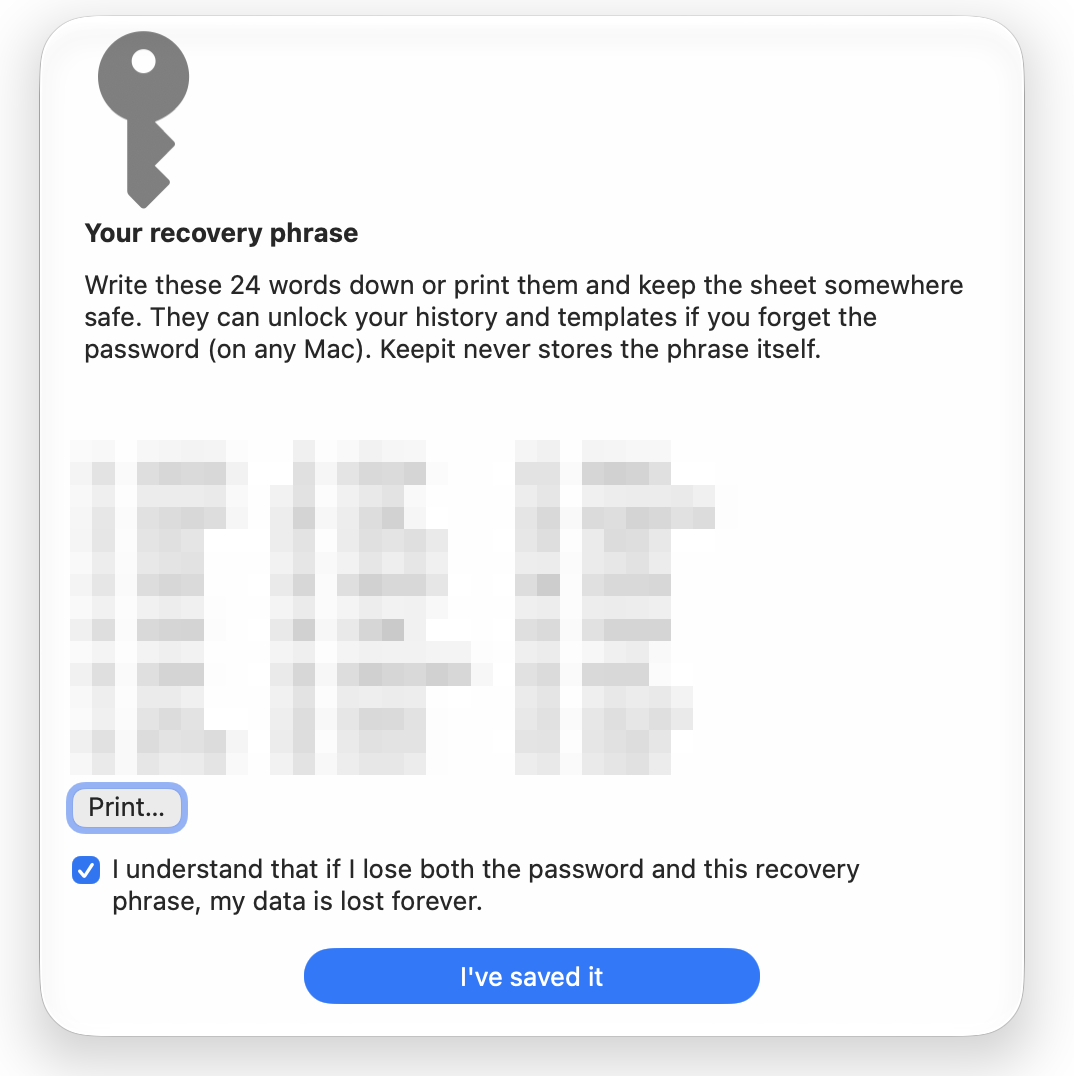
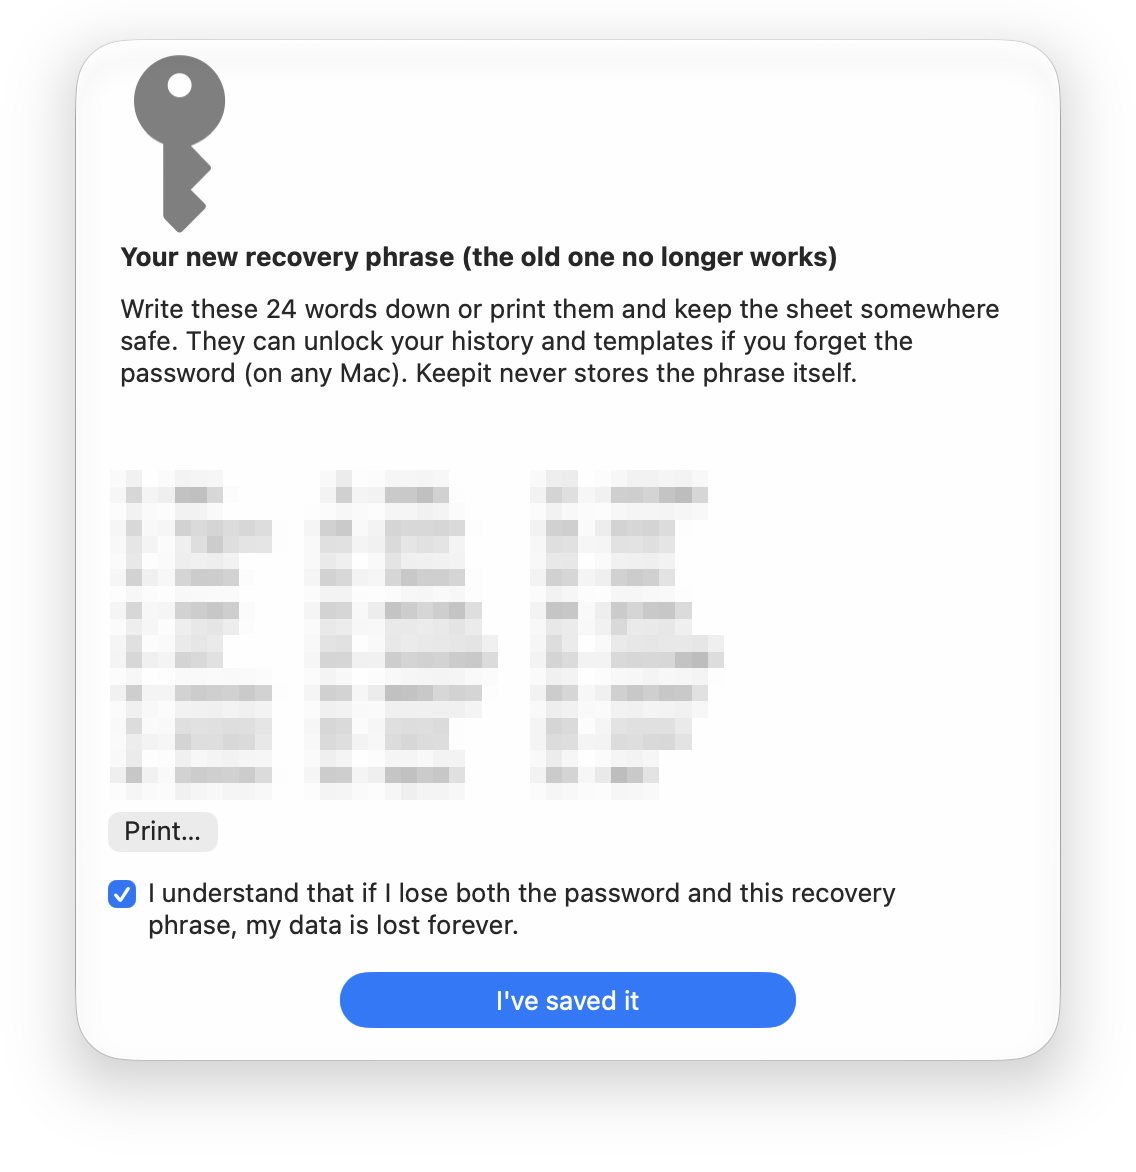
Guide: the five alert-style dialogs retaken as region shots on white, every one at the same margins; the normalizer finds a white alert by its border ring
Claude-Session: https://claude.ai/code/session_018CvCqvTTYcjZs6rVg6ZZHt

Changed region(s): [[0.0307, 0.3987, 0.9525, 1.0], [0.0615, 0.0307, 0.8911, 0.3374], [0.4609, 0.3987, 0.4916, 0.4294]]

diff --git a/docs/site/guide.html b/docs/site/guide.html
@@ -83,7 +83,7 @@ into <em>Applications</em>.</p>
 <figure class="shot" style="max-width:636px"><a href="img/guide/dmg.png?v=a3bf55fd" class="zoom" title="Open full size"><img src="img/guide/dmg.png?v=a3bf55fd" alt="The DMG: drag Keepit to Applications" width="636" height="396" loading="lazy"></a><figcaption>The DMG: drag Keepit to Applications</figcaption></figure>
 <p>The first time you open the app, macOS confirms that it came from the Internet and was checked by
 Apple. Click <em>Open</em>.</p>
-<figure class="shot" style="max-width:286px"><a href="img/guide/gatekeeper.png?v=410c81dc" class="zoom" title="Open full size"><img src="img/guide/gatekeeper.png?v=410c81dc" alt="macOS Gatekeeper confirmation" width="286" height="274" loading="lazy"></a><figcaption>macOS Gatekeeper confirmation</figcaption></figure>
+<figure class="shot" style="max-width:336px"><a href="img/guide/gatekeeper.png?v=d79051e5" class="zoom" title="Open full size"><img src="img/guide/gatekeeper.png?v=d79051e5" alt="macOS Gatekeeper confirmation" width="336" height="336" loading="lazy"></a><figcaption>macOS Gatekeeper confirmation</figcaption></figure>
 <p>Keepit is signed and notarized, updates itself, and runs natively on Apple silicon and Intel Macs
 with macOS 13 Ventura or newer.</p>
 <h3 id="first-launch">First launch</h3>
@@ -104,7 +104,7 @@ with its password a moment ago, Keepit offers to keep that password for this Mac
 in; macOS allows that only for apps listed under <em>System Settings → Privacy &amp; Security →
 Accessibility</em>. Click <em>Open System Settings</em> and switch Keepit on. Without it Keepit still records
 and copies, but you press ⌘V yourself.</p>
-<figure class="shot" style="max-width:316px"><a href="img/guide/accessibility-prompt.png?v=02e5af1e" class="zoom" title="Open full size"><img src="img/guide/accessibility-prompt.png?v=02e5af1e" alt="Keepit asks for the Accessibility permission" width="316" height="410" loading="lazy"></a><figcaption>Keepit asks for the Accessibility permission</figcaption></figure>
+<figure class="shot" style="max-width:336px"><a href="img/guide/accessibility-prompt.png?v=2deae658" class="zoom" title="Open full size"><img src="img/guide/accessibility-prompt.png?v=2deae658" alt="Keepit asks for the Accessibility permission" width="336" height="462" loading="lazy"></a><figcaption>Keepit asks for the Accessibility permission</figcaption></figure>
 <figure class="shot" style="max-width:816px"><a href="img/guide/accessibility-settings.png?v=fdf9f5be" class="zoom" title="Open full size"><img src="img/guide/accessibility-settings.png?v=fdf9f5be" alt="Keepit enabled under Privacy &amp; Security → Accessibility" width="816" height="546" loading="lazy"></a><figcaption>Keepit enabled under Privacy &amp; Security → Accessibility</figcaption></figure>
 <p>Keepit starts at login by default — <em>Settings → General</em> switches that off.</p>
 <hr />
@@ -296,7 +296,7 @@ cursor, so there is nothing to memorise.</p>
 <p><code>{input:Name}</code> and <code>{choice:Label=A|B|C}</code> turn a template into a small form: when you paste it,
 Keepit asks for the values first, then pastes the finished text. The same name is asked only once,
 however often it appears; <code>{input:Name=Default}</code> pre-fills the field.</p>
-<figure class="shot" style="max-width:454px"><a href="img/guide/input-dialog.png?v=0c844331" class="zoom" title="Open full size"><img src="img/guide/input-dialog.png?v=0c844331" alt="Pasting a template with {input:Name} asks for the value first" width="454" height="280" loading="lazy"></a><figcaption>Pasting a template with {input:Name} asks for the value first</figcaption></figure>
+<figure class="shot" style="max-width:484px"><a href="img/guide/input-dialog.png?v=885e4b59" class="zoom" title="Open full size"><img src="img/guide/input-dialog.png?v=885e4b59" alt="Pasting a template with {input:Name} asks for the value first" width="484" height="320" loading="lazy"></a><figcaption>Pasting a template with {input:Name} asks for the value first</figcaption></figure>
 <p>A reply template, for example:</p>
 <pre><code>Hi {input:Name},
 
@@ -403,14 +403,14 @@ Keepit asks for a touch instead of the password. The password keeps working as a
 Password</em> on the prompt. With the lid closed and an external Magic Keyboard with Touch ID, Keepit
 asks on the keyboard. <em>Allow changing the password with Touch ID</em> lets a fingerprint stand in for
 the old password when you change it.</p>
-<figure class="shot" style="max-width:293px"><a href="img/guide/touch-id.png?v=3e0b7fb0" class="zoom" title="Open full size"><img src="img/guide/touch-id.png?v=3e0b7fb0" alt="Unlocking with Touch ID; the password stays as fallback" width="293" height="268" loading="lazy"></a><figcaption>Unlocking with Touch ID; the password stays as fallback</figcaption></figure>
+<figure class="shot" style="max-width:336px"><a href="img/guide/touch-id.png?v=f7a155fe" class="zoom" title="Open full size"><img src="img/guide/touch-id.png?v=f7a155fe" alt="Unlocking with Touch ID; the password stays as fallback" width="336" height="313" loading="lazy"></a><figcaption>Unlocking with Touch ID; the password stays as fallback</figcaption></figure>
 <h3 id="recovery-phrase">Recovery phrase</h3>
 <p>When you set a password Keepit shows a 24-word phrase once. Print it or keep it in a password
 manager. If you forget the password, <em>Recovery Access…</em> on the unlock dialog opens the data and
 lets you set a new one. <em>Recovery phrase → Create New…</em> issues a fresh phrase and invalidates the old.</p>
 <p>Without the password, Touch ID on the same Mac, or the phrase, the data cannot be recovered: there
 is no server and nothing to reset.</p>
-<figure class="shot" style="max-width:537px"><a href="img/guide/recovery-phrase.png?v=881e6de5" class="zoom" title="Open full size"><img src="img/guide/recovery-phrase.png?v=881e6de5" alt="The 24-word recovery phrase (words hidden here)" width="537" height="538" loading="lazy"></a><figcaption>The 24-word recovery phrase (words hidden here)</figcaption></figure>
+<figure class="shot" style="max-width:568px"><a href="img/guide/recovery-phrase.png?v=8aab134d" class="zoom" title="Open full size"><img src="img/guide/recovery-phrase.png?v=8aab134d" alt="The 24-word recovery phrase (words hidden here)" width="568" height="586" loading="lazy"></a><figcaption>The 24-word recovery phrase (words hidden here)</figcaption></figure>
 <h3 id="backup">Backup</h3>
 <p>Keepit can keep an encrypted copy of your history and templates in a folder of your choice — iCloud
 Drive, Dropbox, Google Drive, an external disk, a NAS — and write a new one whenever something has

diff --git a/Scripts/normalize_screenshot.py b/Scripts/normalize_screenshot.py
@@ -17,9 +17,29 @@ def opaque_box(src):
     if a.min()==255: return None
     ys,xs=np.where(a==255)
     return (int(xs.min()),int(ys.min()),int(xs.max()),int(ys.max()))
+def white_edge(line, run=20):
+    """Scan from outside in: shadow, then the window's own light-grey border, then a white interior for `run` px."""
+    n=len(line); nonwhite=np.where(line<252)[0]
+    if len(nonwhite)==0: return None
+    s=int(nonwhite[0])
+    for i in range(s, min(n-run-1, s+400)):
+        if line[i]<235 and (line[i+1:i+1+run]>=245).all(): return i+1
+    return None
+def alert_box(im):
+    """A white alert on a white background (region shot): the border ring is the edge, not a long light run."""
+    L=lum(np.array(im).astype(float)); H,W=L.shape
+    def med(vals):
+        vals=[v for v in vals if v is not None]
+        return int(np.median(vals)) if len(vals)>=3 else None
+    rows=range(H*2//5, H*3//5, max(1,H//40)); cols=range(W*2//5, W*3//5, max(1,W//40))
+    l=med([white_edge(L[y,:]) for y in rows]); r=med([white_edge(L[y,::-1]) for y in rows])
+    t=med([white_edge(L[:,x]) for x in cols]); b=med([white_edge(L[::-1,x]) for x in cols])
+    if None in (l,r,t,b): return None
+    return (l, t, W-1-r, H-1-b)
 def normalize(src, dst):
     box=opaque_box(src)
     if box: x0,y0,x1,y1=box
+    elif (ab:=alert_box(flat(src))): x0,y0,x1,y1=ab; box=ab
     else:
         r=analyze(src); assert r, src
         x0,y0,x1,y1=r['win']
